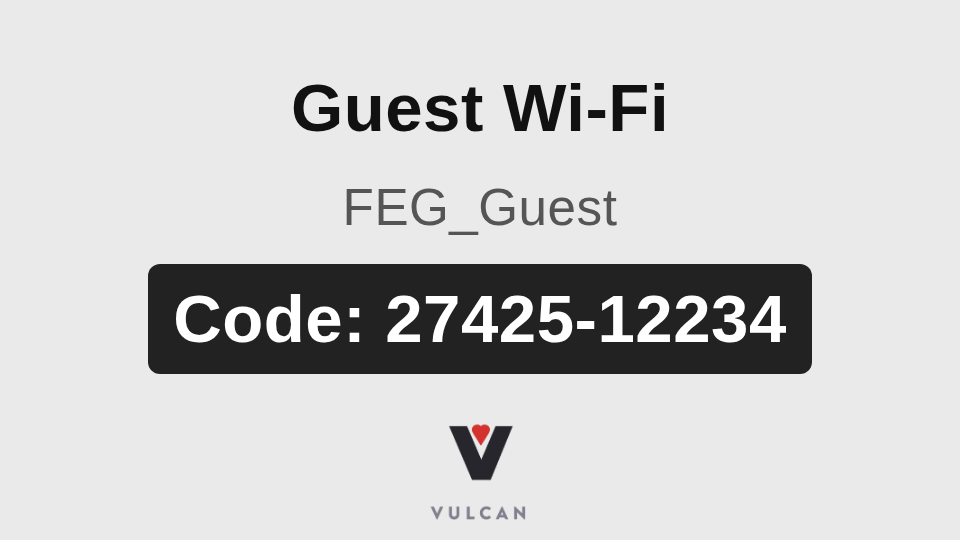
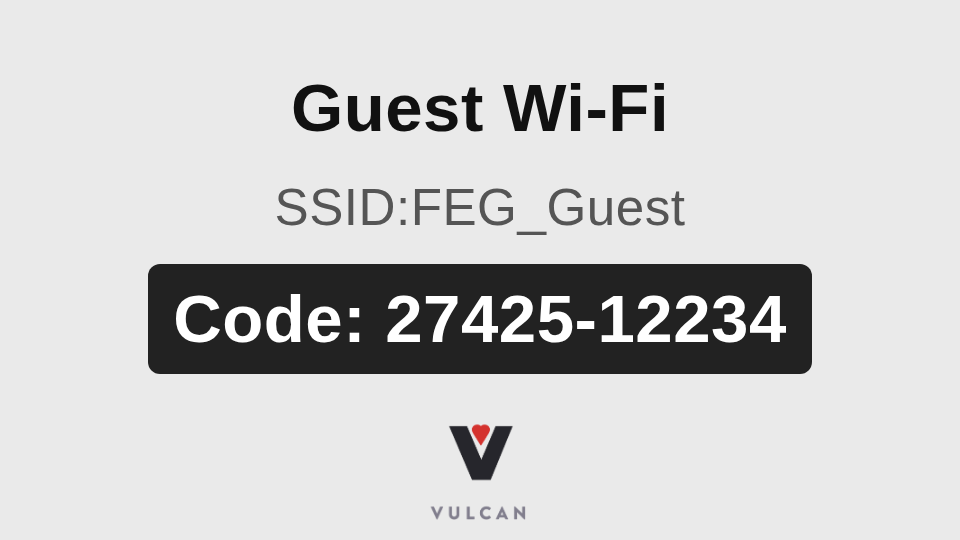
Automated Weekly Wi-Fi Refresh and E-Ink Flashy Image Update

Changed region(s): [[0.2812, 0.3259, 0.7188, 0.4444]]

diff --git a/wifi/wifi2.html b/wifi/wifi2.html
@@ -67,7 +67,7 @@
     <div class="container">
         <div class="wifi-line">
             Guest Wi-Fi<br>
-            <span style="font-weight: 400; font-size: 3.2rem; color: #555555;">FEG_Guest</span><br>
+            <span style="font-weight: 400; font-size: 3.2rem; color: #555555;">SSID:FEG_Guest</span><br>
             <div class="code-highlight">Code: 27425-12234</div>
         </div>
         
